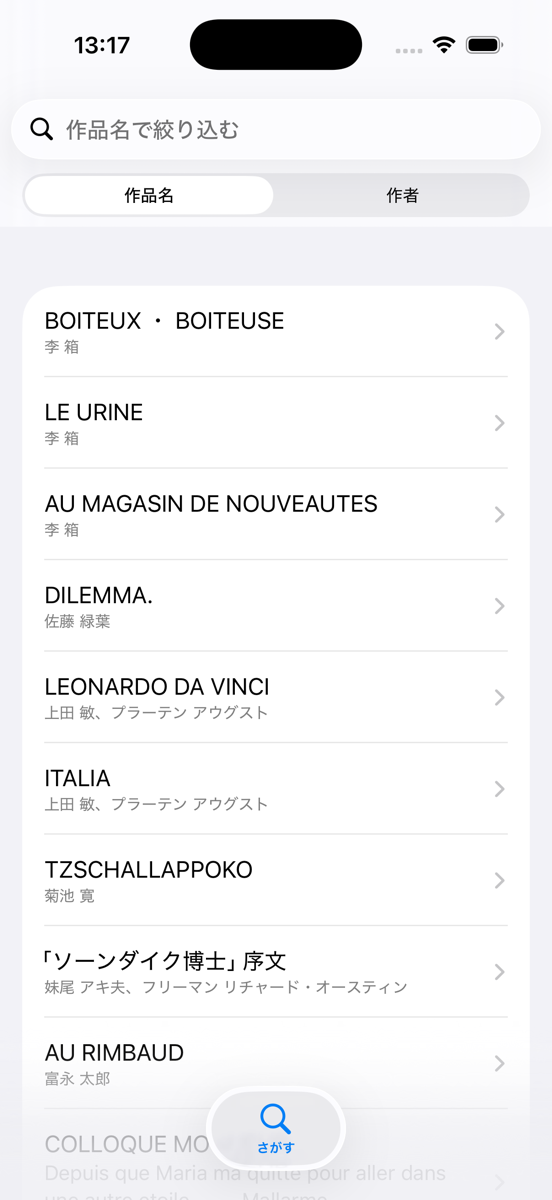
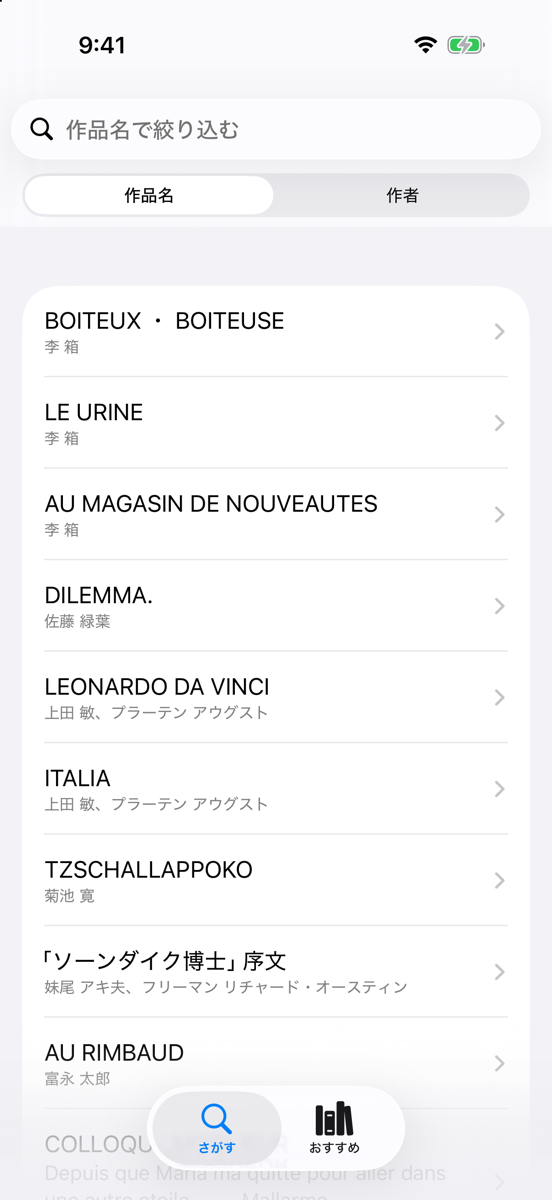
README におすすめタブのスクショと、画面マップと E2E の Skill へのリンクを足した

diff --git a/README.md b/README.md
@@ -2,9 +2,9 @@
 
 青空文庫の作品を探して読むための iOS アプリ。
 
-| さがすタブ | 作品詳細 | リーダー |
-|---|---|---|
-| <img src="doc/images/browse.png" width="240"> | <img src="doc/images/detail.png" width="240"> | <img src="doc/images/reader.png" width="240"> |
+| さがすタブ | おすすめタブ | 作品詳細 | リーダー |
+|---|---|---|---|
+| <img src="doc/images/browse.png" width="200"> | <img src="doc/images/recommend.png" width="200"> | <img src="doc/images/detail.png" width="200"> | <img src="doc/images/reader.png" width="200"> |
 
 ## 構成
 
@@ -34,3 +34,18 @@ swift run --package-path AozoraReaderMockServer
 ## ドキュメント
 
 [doc/README.md](doc/README.md) から。画面ごとの仕様と、データの素性をまとめている。
+
+## 画面マップ（E2E）
+
+[`screen-map/screens/`](screen-map/screens) に、画面ごとに何ができて、操作するとどうなるかを置いている。
+シミュレーターでの動作確認は、ここに書いたアクセシビリティ ID と遷移をもとに導線を組む。
+
+画面マップの作成と動作確認には、Claude Code の Skill を使っている。
+Skill は [claude-ios-e2e-skills](https://github.com/tx-TEM/claude-ios-e2e-skills) にまとめてある。
+
+| 画面 | 画面マップ |
+|---|---|
+| さがすタブ | [browse.yaml](screen-map/screens/browse.yaml) |
+| おすすめタブ | [recommend.yaml](screen-map/screens/recommend.yaml) |
+| 作品詳細 | [detail.yaml](screen-map/screens/detail.yaml) |
+| リーダー | [reader.yaml](screen-map/screens/reader.yaml) |
